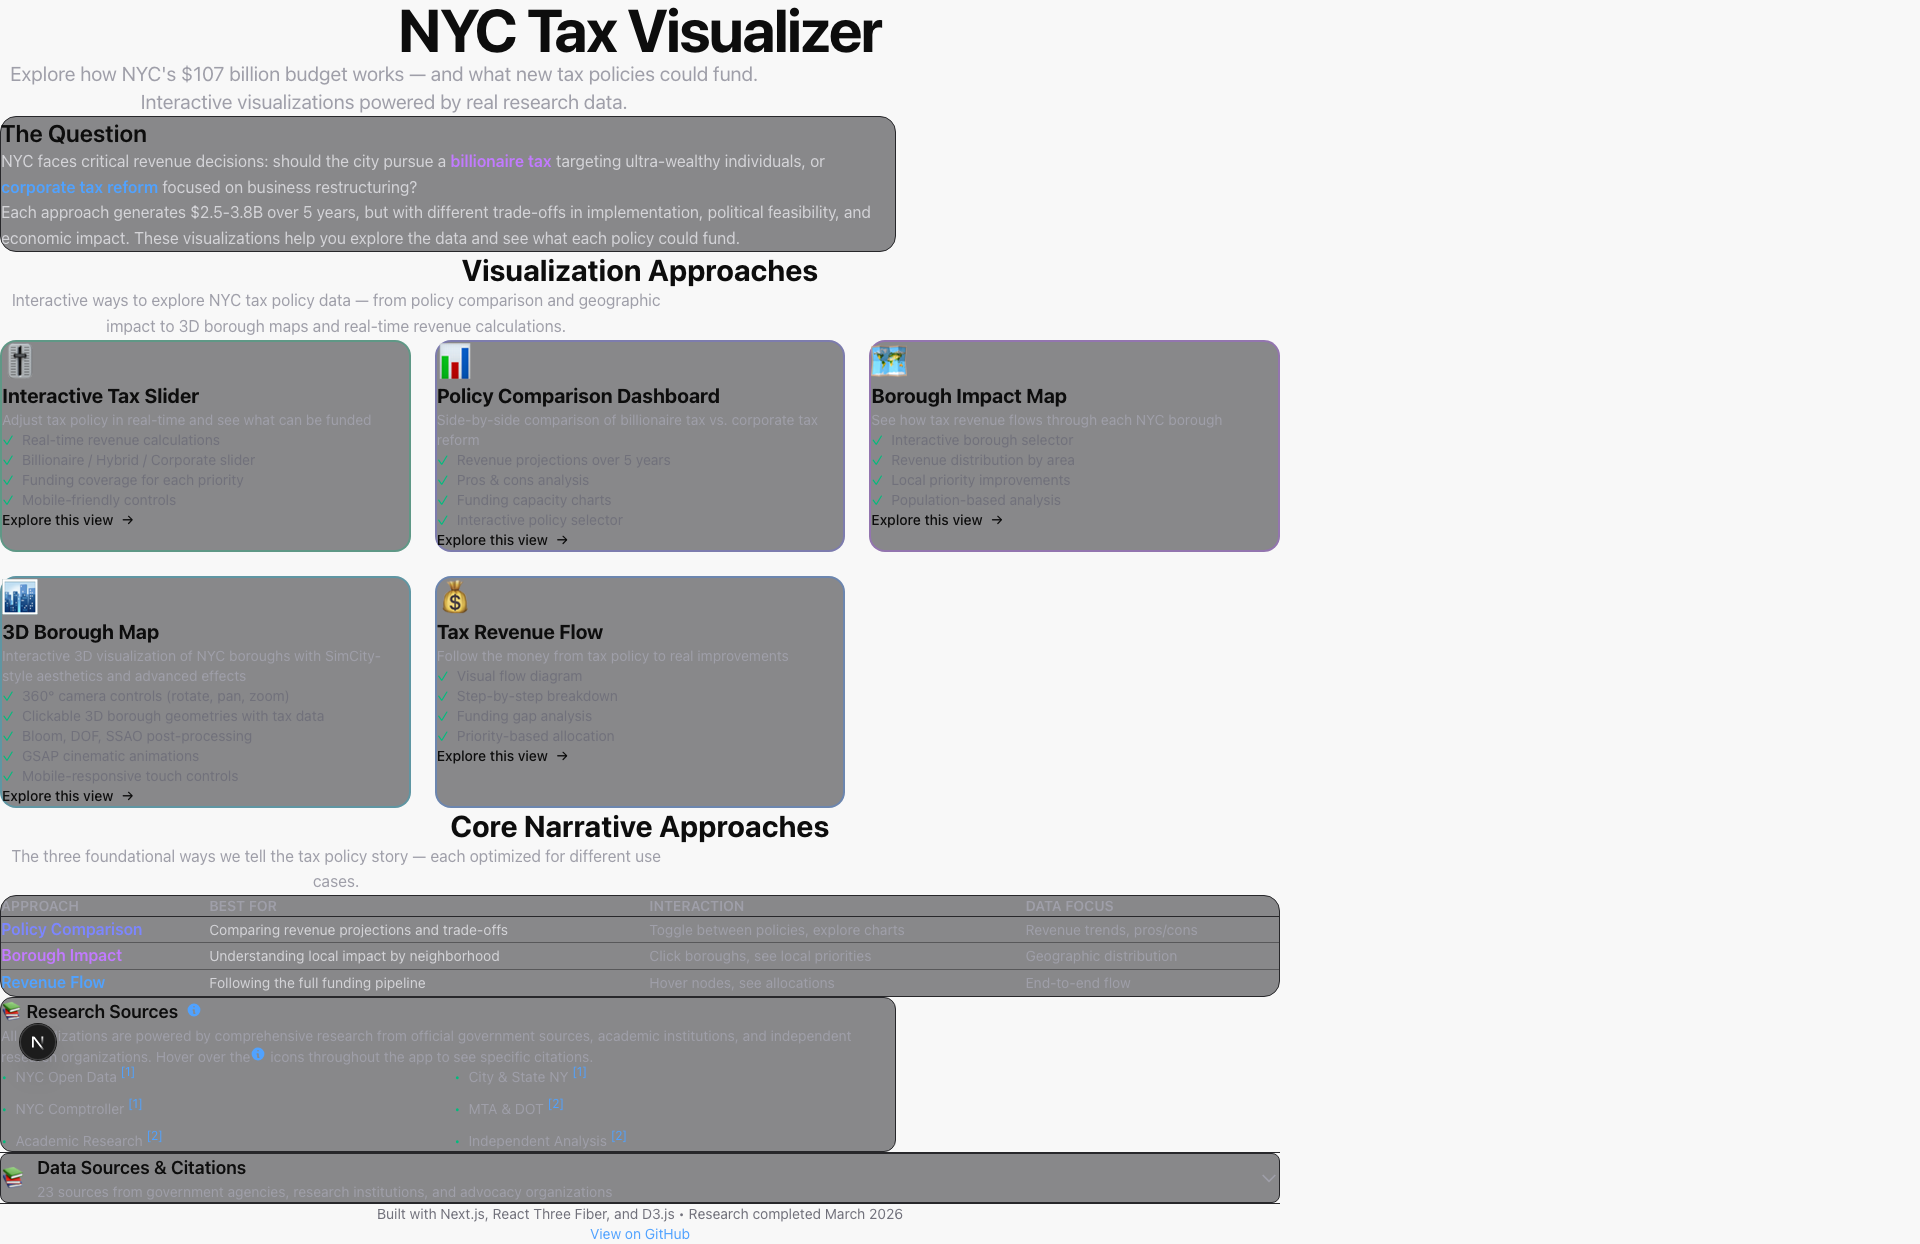
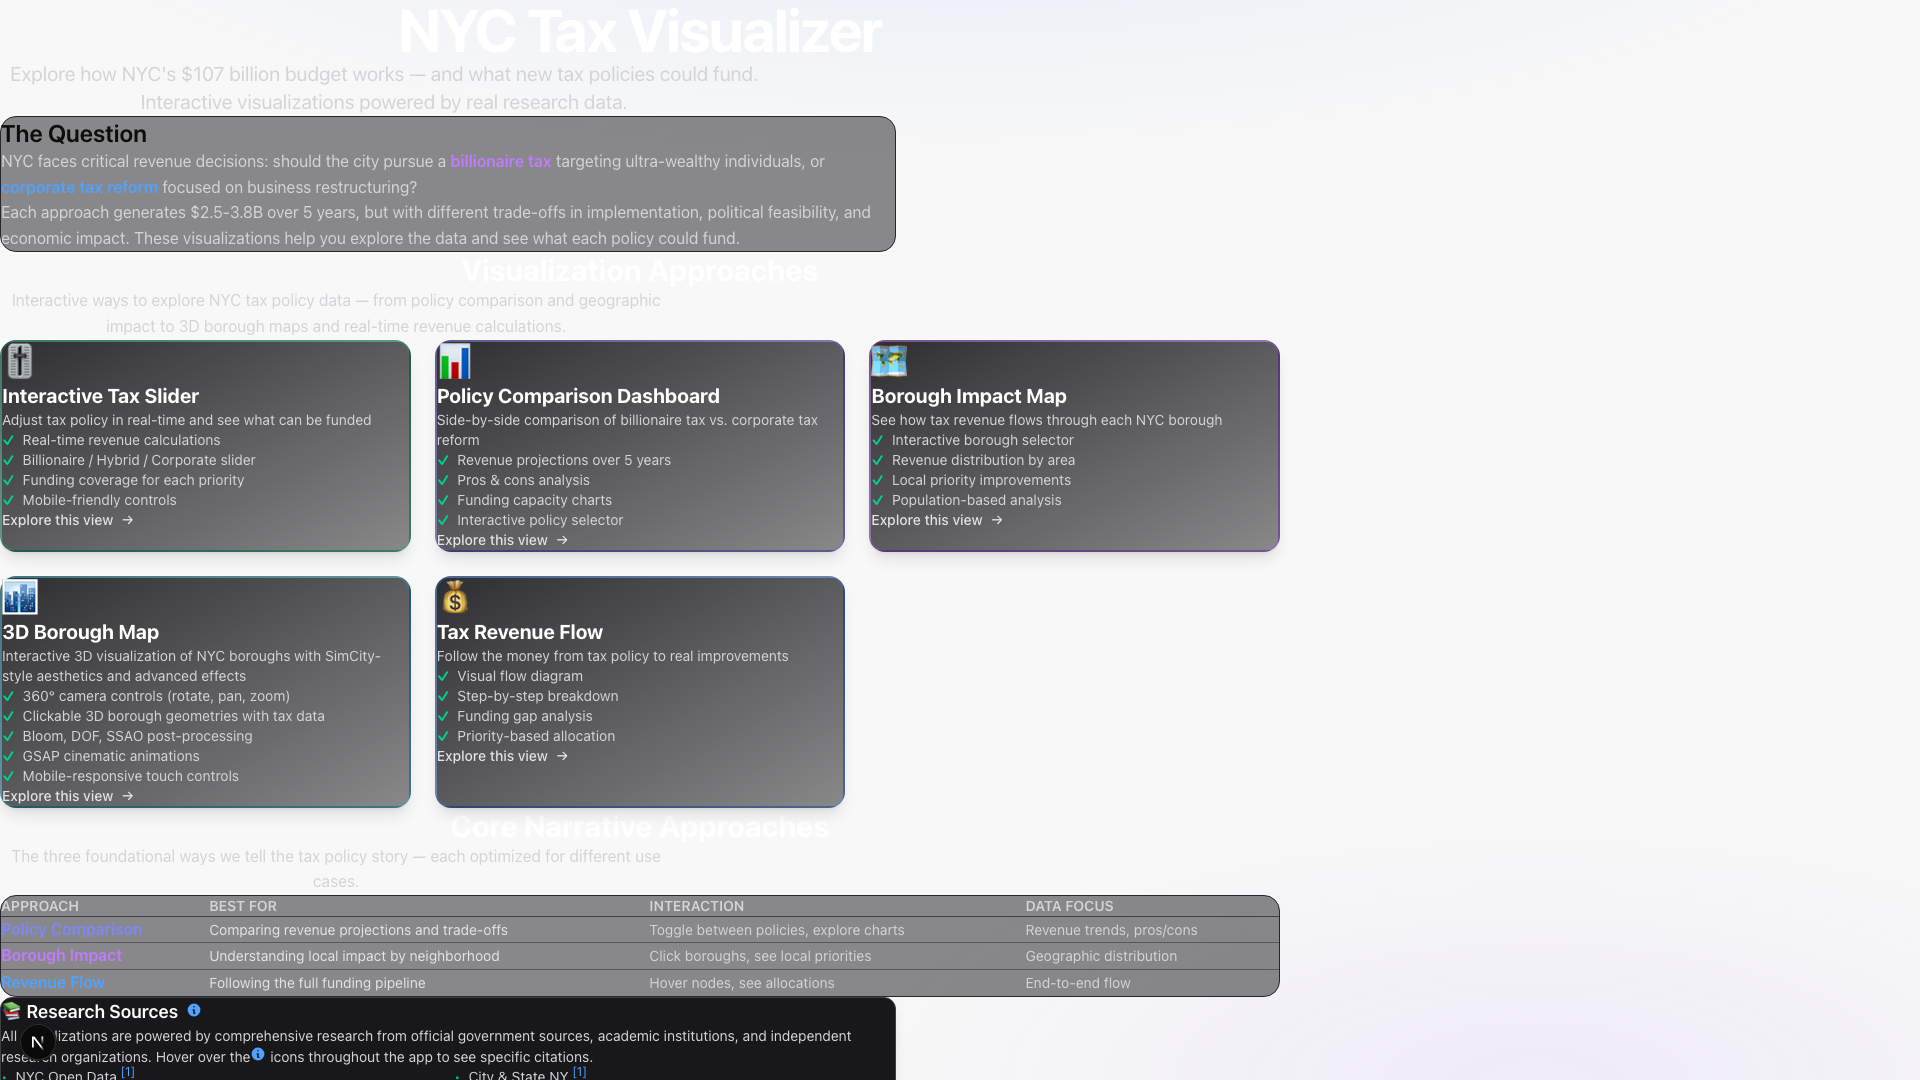
Increase card border opacity for better visibility (30% → 50%)

diff --git a/src/app/page.tsx b/src/app/page.tsx
@@ -74,14 +74,15 @@ export default function Home() {
 
 
   return (
-    <main className="min-h-screen p-6 md:p-12">
+    <main className="min-h-screen px-4 py-8 sm:px-6 md:px-12 md:py-16">
       <div className="max-w-7xl mx-auto">
         {/* Header */}
-        <header className="mb-16 text-center">
-          <h1 className="text-5xl md:text-6xl font-bold tracking-tight mb-4 text-white">
+        <header className="mb-16 text-center animate-fade-in">
+          <p className="text-sm font-medium tracking-widest uppercase text-blue-400 mb-3">Interactive Data Visualization</p>
+          <h1 className="text-4xl sm:text-5xl md:text-6xl font-bold tracking-tight mb-5 text-white leading-[1.1]">
             NYC Tax Visualizer
           </h1>
-          <p className="text-xl text-zinc-300 max-w-3xl mx-auto">
+          <p className="text-lg md:text-xl text-zinc-400 max-w-3xl mx-auto leading-relaxed">
             Explore how NYC&apos;s $107 billion budget works — and what new tax policies could fund.
             Interactive visualizations powered by real research data.
           </p>
@@ -108,10 +109,10 @@ export default function Home() {
 
         {/* Visualization APPROACHES */}
         <div className="mb-16">
-          <h2 className="text-3xl font-bold mb-3 text-center text-white">
+          <h2 className="text-2xl md:text-3xl font-bold mb-3 text-center text-white">
             Visualization Approaches
           </h2>
-          <p className="text-center text-zinc-300 mb-8 max-w-2xl mx-auto">
+          <p className="text-center text-zinc-400 mb-10 max-w-2xl mx-auto text-sm md:text-base leading-relaxed">
             Interactive ways to explore NYC tax policy data — from policy comparison and geographic impact to 3D borough maps and real-time revenue calculations.
           </p>
           <div className="grid md:grid-cols-2 lg:grid-cols-3 gap-6">
@@ -121,14 +122,14 @@ export default function Home() {
                 href={viz.href}
                 className={`group rounded-2xl border-2 p-6 transition-all duration-300 hover:scale-[1.02] hover:-translate-y-1 shadow-lg ${
                   viz.color === "emerald"
-                    ? "border-emerald-500/30 hover:border-emerald-400 hover:shadow-2xl hover:shadow-emerald-500/20 bg-gradient-to-br from-zinc-900/90 to-zinc-900/50 backdrop-blur-sm"
+                    ? "border-emerald-500/50 hover:border-emerald-400 hover:shadow-2xl hover:shadow-emerald-500/30 bg-gradient-to-br from-zinc-900/90 to-zinc-900/50 backdrop-blur-sm"
                     : viz.color === "indigo"
-                    ? "border-indigo-500/30 hover:border-indigo-400 hover:shadow-2xl hover:shadow-indigo-500/20 bg-gradient-to-br from-zinc-900/90 to-zinc-900/50 backdrop-blur-sm"
+                    ? "border-indigo-500/50 hover:border-indigo-400 hover:shadow-2xl hover:shadow-indigo-500/30 bg-gradient-to-br from-zinc-900/90 to-zinc-900/50 backdrop-blur-sm"
                     : viz.color === "purple"
-                    ? "border-purple-500/30 hover:border-purple-400 hover:shadow-2xl hover:shadow-purple-500/20 bg-gradient-to-br from-zinc-900/90 to-zinc-900/50 backdrop-blur-sm"
+                    ? "border-purple-500/50 hover:border-purple-400 hover:shadow-2xl hover:shadow-purple-500/30 bg-gradient-to-br from-zinc-900/90 to-zinc-900/50 backdrop-blur-sm"
                     : viz.color === "cyan"
-                    ? "border-cyan-500/30 hover:border-cyan-400 hover:shadow-2xl hover:shadow-cyan-500/20 bg-gradient-to-br from-zinc-900/90 to-zinc-900/50 backdrop-blur-sm"
-                    : "border-blue-500/30 hover:border-blue-400 hover:shadow-2xl hover:shadow-blue-500/20 bg-gradient-to-br from-zinc-900/90 to-zinc-900/50 backdrop-blur-sm"
+                    ? "border-cyan-500/50 hover:border-cyan-400 hover:shadow-2xl hover:shadow-cyan-500/30 bg-gradient-to-br from-zinc-900/90 to-zinc-900/50 backdrop-blur-sm"
+                    : "border-blue-500/50 hover:border-blue-400 hover:shadow-2xl hover:shadow-blue-500/30 bg-gradient-to-br from-zinc-900/90 to-zinc-900/50 backdrop-blur-sm"
                 }`}
               >
                 <div className="mb-4 text-4xl">{viz.icon}</div>
@@ -155,10 +156,10 @@ export default function Home() {
 
         {/* Comparison table */}
         <div className="mb-16">
-          <h2 className="text-3xl font-bold mb-8 text-center text-white">
+          <h2 className="text-2xl md:text-3xl font-bold mb-3 text-center text-white">
             Core Narrative Approaches
           </h2>
-          <p className="text-center text-zinc-300 mb-8 max-w-2xl mx-auto">
+          <p className="text-center text-zinc-400 mb-10 max-w-2xl mx-auto text-sm md:text-base leading-relaxed">
             The three foundational ways we tell the tax policy story — each optimized for different use cases.
           </p>
           <div className="rounded-2xl border border-zinc-800 bg-zinc-900/50 overflow-hidden">

diff --git a/src/components/BoroughMap3DUnified.tsx b/src/components/BoroughMap3DUnified.tsx
@@ -311,7 +311,7 @@ function Borough({ name, coordinates, isHovered, isSelected, onClick, onHover, a
 
   useEffect(() => {
     if (groupRef.current && mounted) {
-      gsap.to(groupRef.current.scale, { x: isHovered ? 1.02 : 1, y: isHovered ? 1.02 : 1, z: isHovered ? 1.05 : 1, duration: 0.3, ease: 'power2.out' });
+      gsap.to(groupRef.current.scale, { x: isHovered ? 1.02 : 1, y: isHovered ? 1.02 : 1, z: isHovered ? 1.05 : 1, duration: 0.2, ease: 'power2.out', overwrite: true });
     }
   }, [isHovered, mounted]);
 
@@ -464,21 +464,17 @@ function Scene({ boroughs, showTaxData = true, autoRotate = true }: { boroughs: 
 
   return (
     <>
-      {/* Enhanced background with gradient */}
-      <color attach="background" args={['#0a0f1a']} />
+      {/* Clean white background */}
+      <color attach="background" args={['#ffffff']} />
       
-      {/* Ground plane with enhanced material */}
+      {/* Ground plane with light material */}
       <mesh rotation={[-Math.PI / 2, 0, 0]} position={[0, -0.5, 0]} receiveShadow>
         <planeGeometry args={[500, 500]} />
         <meshPhysicalMaterial 
-          color="#0f1419"
+          color="#f5f5f5"
           roughness={0.9}
-          metalness={0.2}
-          envMapIntensity={0.4}
-          emissive="#0a0e14"
-          emissiveIntensity={0.15}
-          clearcoat={0.1}
-          clearcoatRoughness={0.8}
+          metalness={0.05}
+          envMapIntensity={0.2}
         />
       </mesh>
       
@@ -497,42 +493,42 @@ function Scene({ boroughs, showTaxData = true, autoRotate = true }: { boroughs: 
       />
 
       <PerspectiveCamera makeDefault position={[120, 140, 120]} fov={60} />
-      <OrbitControls 
-        enablePan 
-        enableZoom 
-        enableRotate 
-        enableDamping 
-        dampingFactor={0.15} 
-        minDistance={40} 
-        maxDistance={300} 
-        maxPolarAngle={Math.PI / 1.1} 
-        minPolarAngle={Math.PI / 8} 
-        rotateSpeed={0.6} 
-        zoomSpeed={1.0} 
-        panSpeed={0.6} 
-        autoRotate={autoRotate} 
-        autoRotateSpeed={0.5} 
+      <OrbitControls
+        enablePan
+        enableZoom
+        enableRotate
+        enableDamping
+        dampingFactor={0.08}
+        minDistance={40}
+        maxDistance={300}
+        maxPolarAngle={Math.PI / 1.1}
+        minPolarAngle={Math.PI / 8}
+        rotateSpeed={0.5}
+        zoomSpeed={0.8}
+        panSpeed={0.5}
+        autoRotate={autoRotate}
+        autoRotateSpeed={0.3}
       />
 
       {/* Enhanced lighting setup */}
       <ambientLight intensity={0.5} color="#4a5b7a" />
       
       {/* Main directional lights with enhanced shadows */}
-      <directionalLight 
-        position={[100, 120, 80]} 
-        intensity={2.2} 
-        color="#ffe8c5" 
-        castShadow 
-        shadow-mapSize-width={4096} 
-        shadow-mapSize-height={4096} 
-        shadow-camera-left={-200} 
-        shadow-camera-right={200} 
-        shadow-camera-top={200} 
-        shadow-camera-bottom={-200} 
-        shadow-camera-near={0.5} 
-        shadow-camera-far={500} 
+      <directionalLight
+        position={[100, 120, 80]}
+        intensity={2.2}
+        color="#ffe8c5"
+        castShadow
+        shadow-mapSize-width={2048}
+        shadow-mapSize-height={2048}
+        shadow-camera-left={-200}
+        shadow-camera-right={200}
+        shadow-camera-top={200}
+        shadow-camera-bottom={-200}
+        shadow-camera-near={0.5}
+        shadow-camera-far={500}
         shadow-bias={-0.0001}
-        shadow-radius={3}
+        shadow-radius={2}
       />
       
       <directionalLight 
@@ -570,16 +566,6 @@ function Scene({ boroughs, showTaxData = true, autoRotate = true }: { boroughs: 
       <fog attach="fog" args={["#1a2035", 100, 380]} />
       
       {/* Enhanced stars */}
-      <Stars 
-        radius={320} 
-        depth={70} 
-        count={4000} 
-        factor={6.5} 
-        saturation={0.6} 
-        fade 
-        speed={0.6} 
-      />
-
       {boroughs.map((borough, index) => (
         <Borough
           key={borough.name} 
